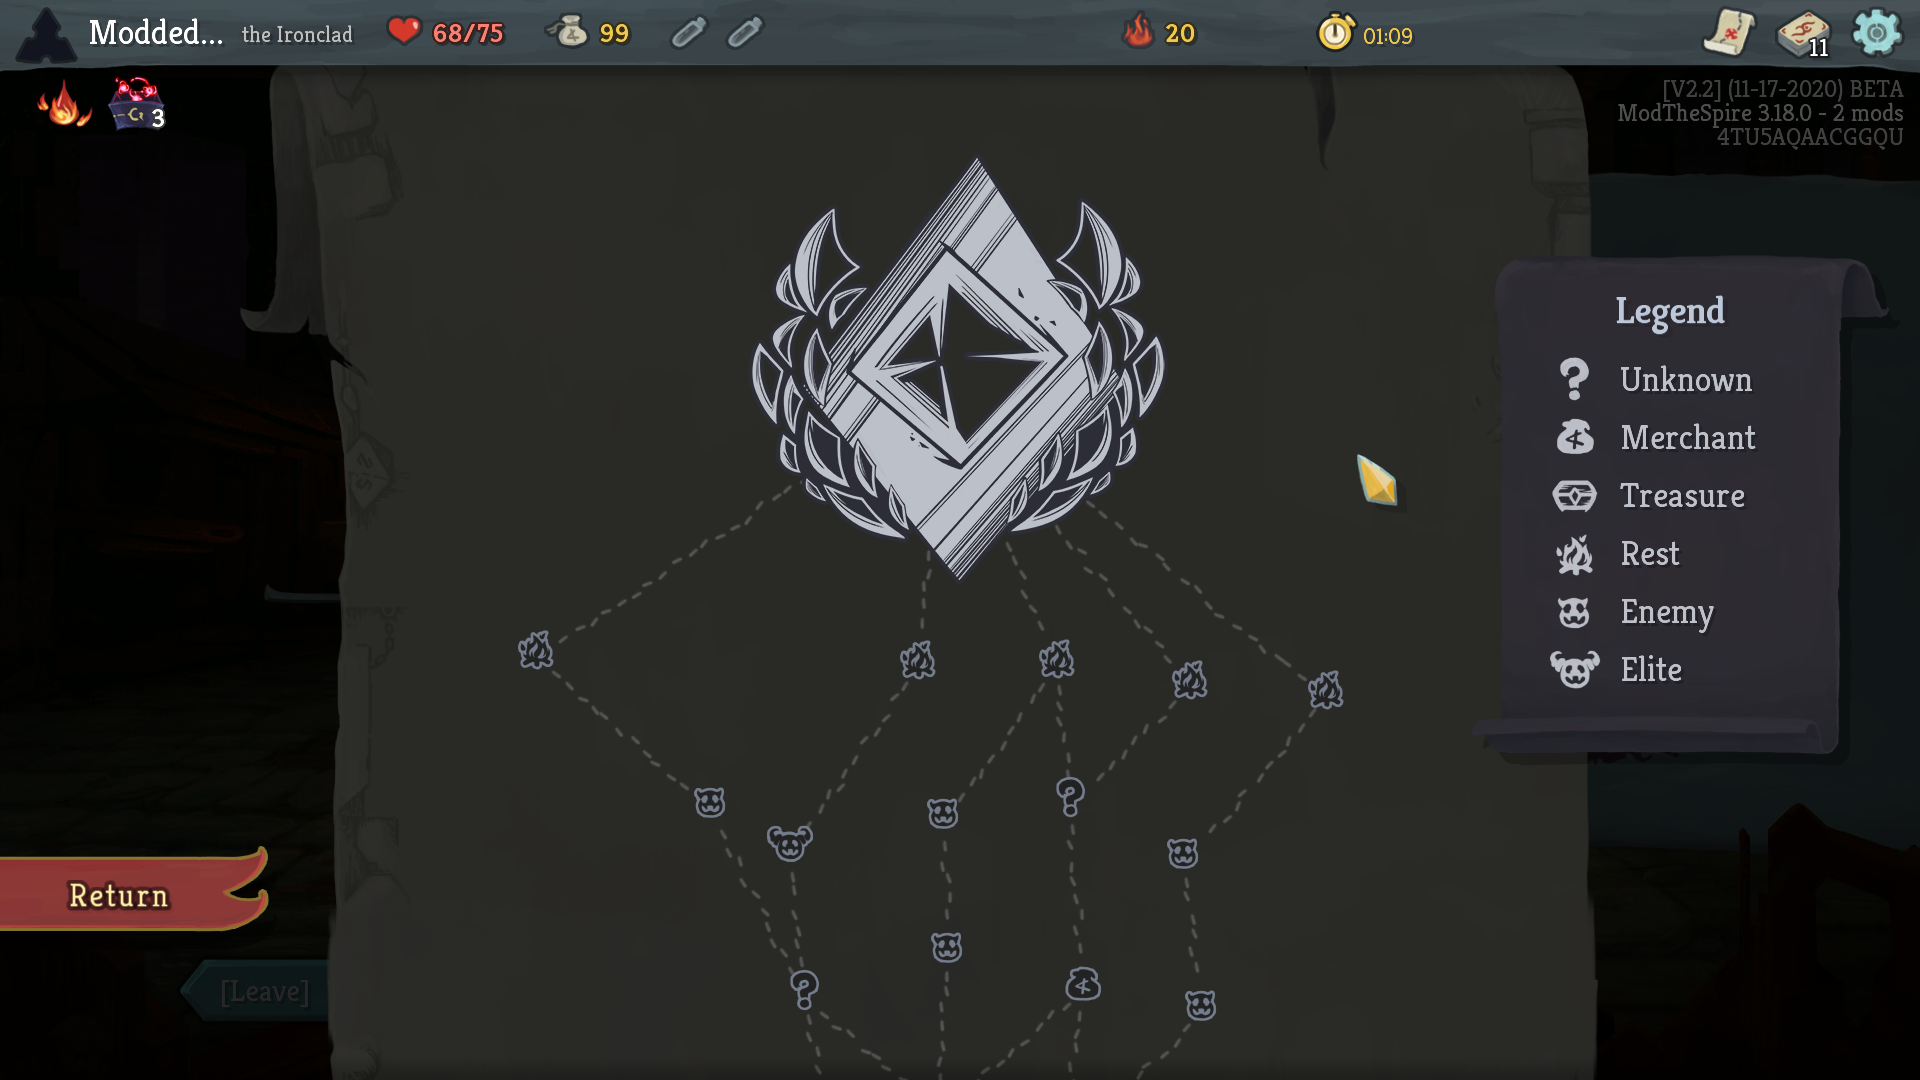
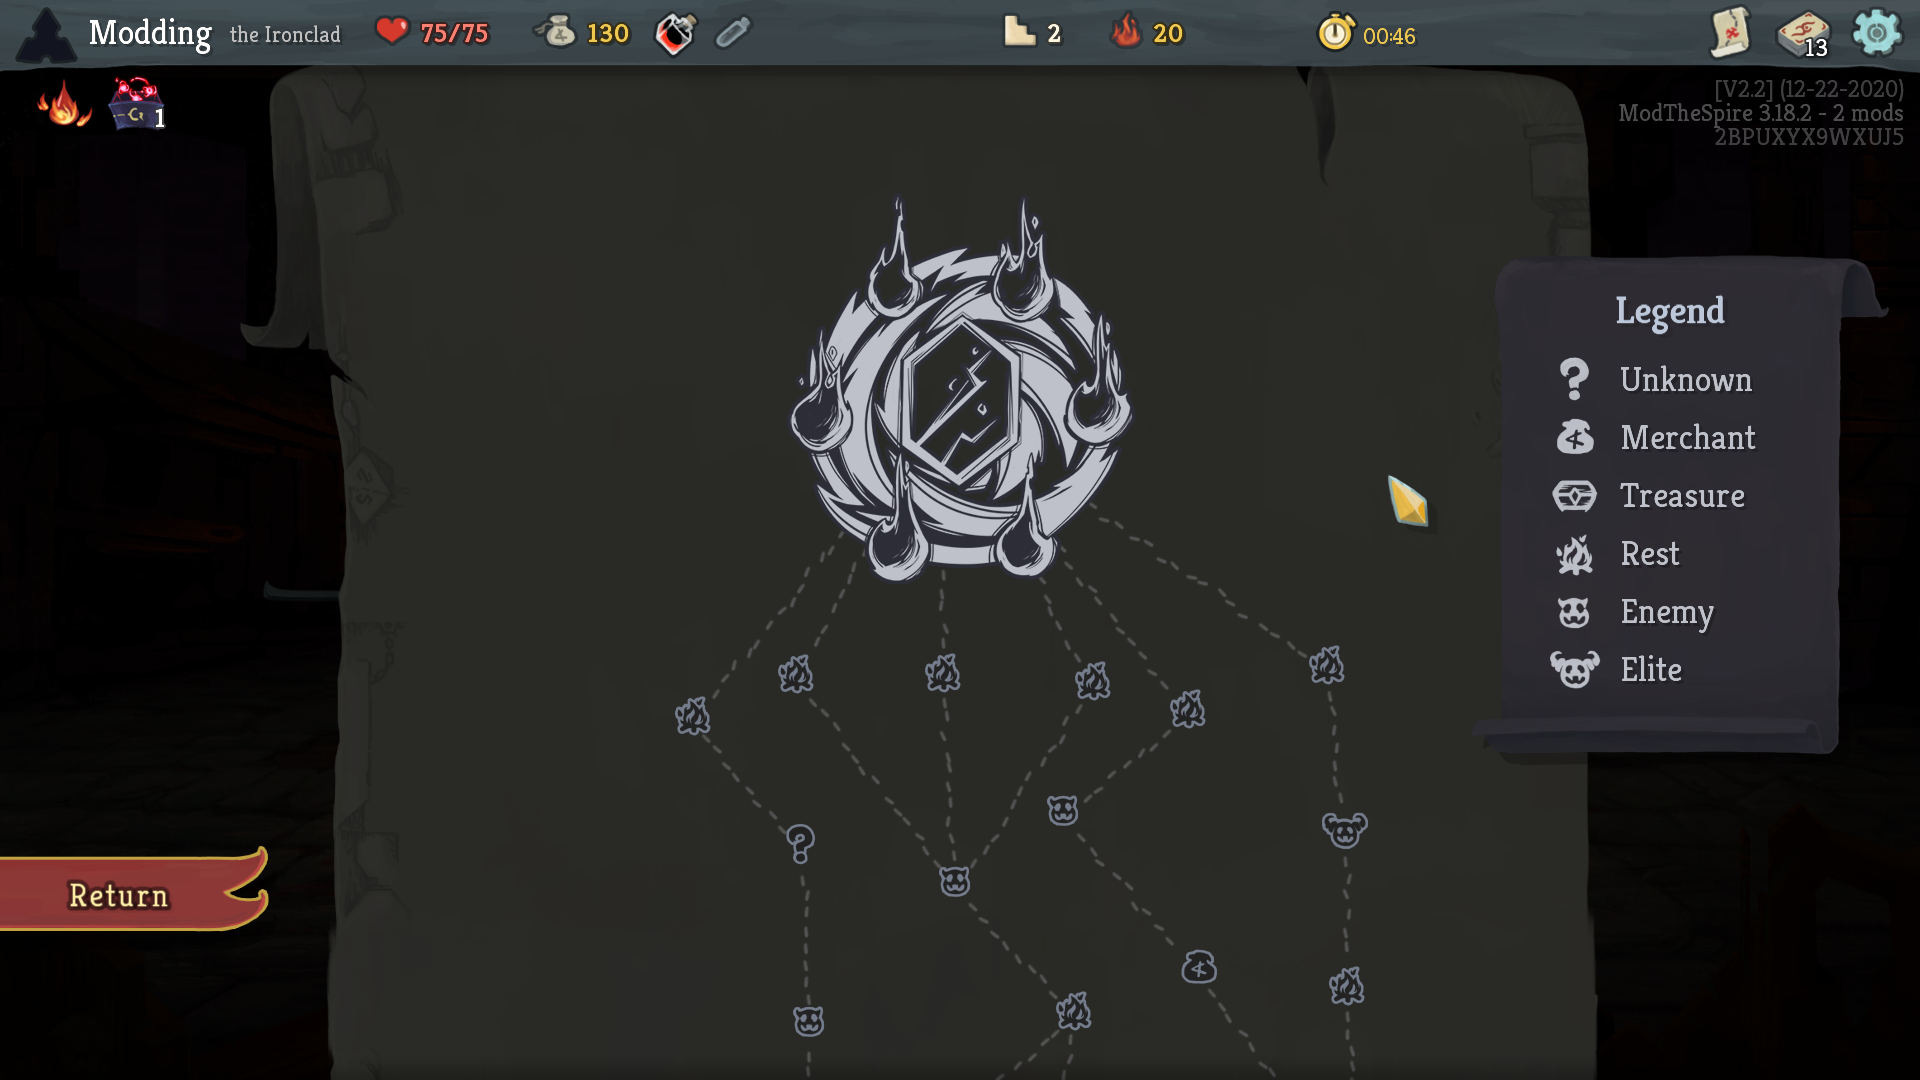
Fixed map edge colors; prep for workshop

diff --git a/src/main/java/DarkMap/patches/MapPatches.java b/src/main/java/DarkMap/patches/MapPatches.java
@@ -23,6 +23,18 @@ public class MapPatches {
         }
     }
 
+    // Map Edge colors
+    @SpirePatch( clz = MapRoomNode.class, method = SpirePatch.CONSTRUCTOR )
+    public static class MapEdgeColorPatches {
+        @SpirePostfixPatch
+        public static void Postfix(MapRoomNode node) {
+            //Color baseMapColor = (Color) ReflectionHacks.getPrivate(map, DungeonMap.class, "baseMapColor");
+            //Color edgeColor = ReflectionHacks.getPrivateStatic(MapRoomNode.class, "AVAILABLE_COLOR");
+            ReflectionHacks.setPrivateStaticFinal(MapRoomNode.class, "AVAILABLE_COLOR", ExtraColors.MAP_EDGE_AVAILABLE);
+            //baseMapColor.set(ExtraColors.mapBg);
+        }
+    }
+
     // --------------------------------------------------------------------------------
     // Map Nodes
     @SpirePatch(clz = MapRoomNode.class, method = "render")

diff --git a/src/main/java/DarkMap/utils/ExtraColors.java b/src/main/java/DarkMap/utils/ExtraColors.java
@@ -15,4 +15,8 @@ public class ExtraColors {
     public static final Color LEGEND_MAIN_TEXT = new Color(0.741f, 0.784f, 0.851f, 1.0f);
 
     public static final Color MAP_CIRCLE = new Color(0.588f, 0.596f, 0.773f, 1.0f);
+
+    //public static final Color MAP_EDGE_AVAILABLE = new Color(0.388f, 0.545f, 0.769f, 1.0f);
+    //public static final Color MAP_EDGE_AVAILABLE = MAP_CIRCLE.cpy();
+    public static final Color MAP_EDGE_AVAILABLE = new Color(0.408f, 0.420f, 0.749f, 1.0f);
 }

diff --git a/src/main/java/DarkMap/DarkMap.java b/src/main/java/DarkMap/DarkMap.java
@@ -18,6 +18,6 @@ public class DarkMap implements PostInitializeSubscriber {
 
     @Override
     public void receivePostInitialize() {
-        BaseMod.registerModBadge(new Texture("DarkMap/badge.png"), "Dark Map", "ojb", "Makes the map a dark theme", null);
+        BaseMod.registerModBadge(new Texture("DarkMap/badge.png"), "Dark Map", "ojb", "Gives the map a dark theme", null);
     }
 }

diff --git a/README.MD b/README.MD
@@ -1,20 +1,21 @@
-## Dark Map *(beta branch only)*
+## Dark Map
 
 Gives the map a dark theme for the late night spire slayer.
 
 ![Screenshot](github/screenshot.png)
 
 ### Notes
-* Only works on the beta branch of Slay the Spire (11-17-2020 patch) - this mod will not work on the main branch! Check out [My BaseMod patch](https://github.com/casey-c/basemod/releases) for a temporary solution to get mods working on the beta branch.
-* Due to how it patches the base game render calls, it is most likely incompatible with other map coloring mods (e.g. colored map nodes etc.) - but they are probably not fully working on the current beta branch anyway due to the devs tweaking things in the beta branch.
+* Due to how it patches the base game render calls, it is most likely incompatible with other map coloring mods (e.g. colored map nodes etc.)
 
 ### Additional Info
 * This mod is a spin off of my upcoming map improvement mod (which itself is a sequel to BetterPaths) - when that project releases this mod will most likely be obsolete (and incompatible as it will touch the same code). Stay tuned for that mod in the near future.
 * This mod will likely not see any further updates and is only being released as a small hold-over until the main map mod is completed.
 
+![Screenshot](github/screenshot2.png)
+
 ### Installation
 
-Requires ModTheSpire and [my beta branch BaseMod patch](https://github.com/casey-c/basemod/releases). Note: If you're new to my forked version of BaseMod, you'll have to unsubscribe from the real basemod to use it due to the version numbers being behind. At the time of posting, the real base mod is still not yet updated to support anything beyond the main branch due to the instability of beta changes.
+Requires ModTheSpire and BaseMod (find them on the Steam Workshop).
 
 To install this mod, download the latest version at the [releases page](https://github.com/casey-c/DarkMap/releases) and place them into your SlayTheSpire/mods folder.
 
